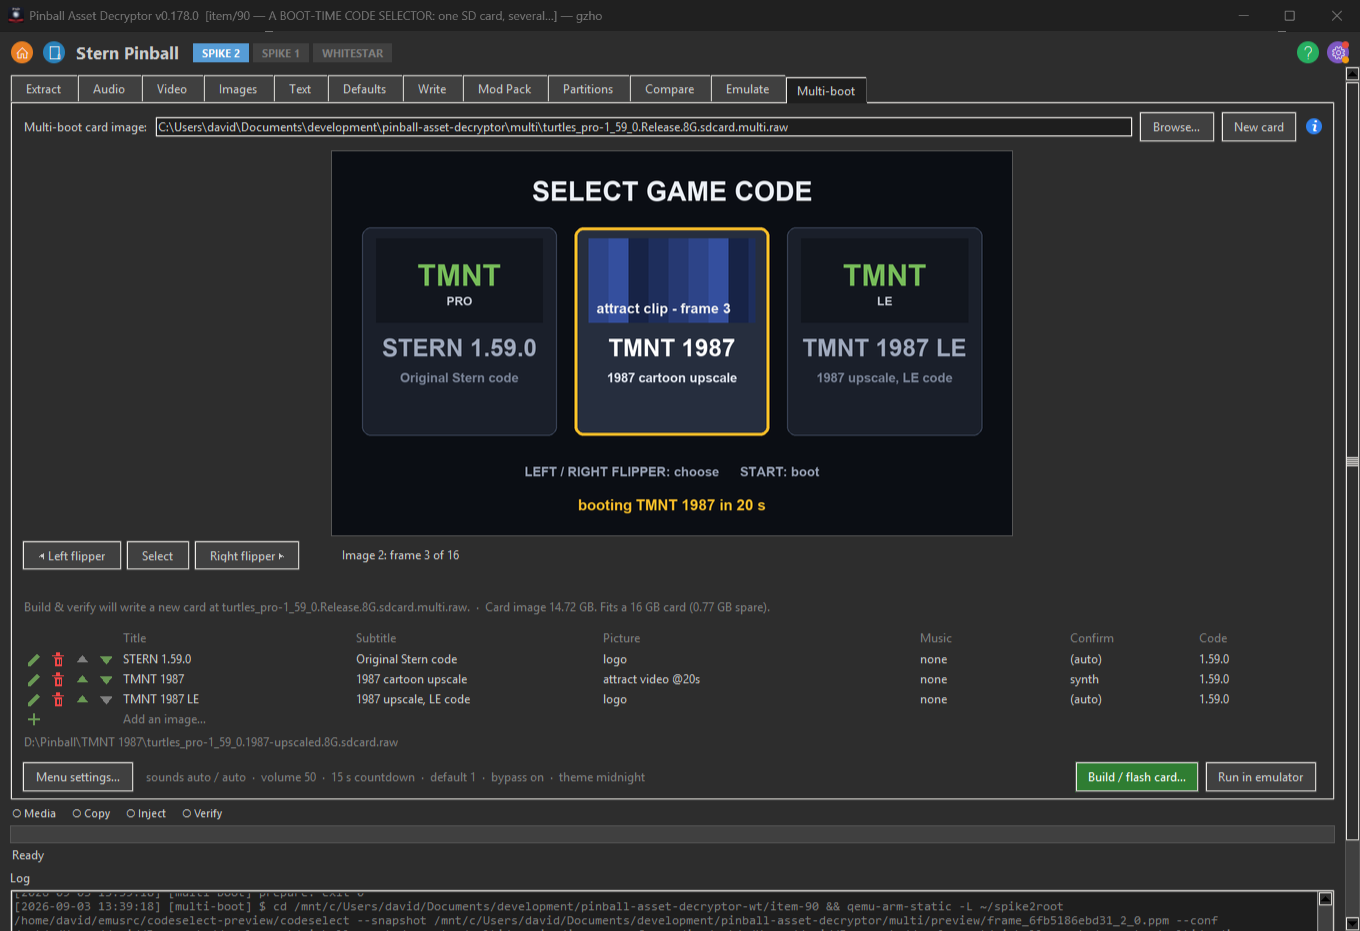
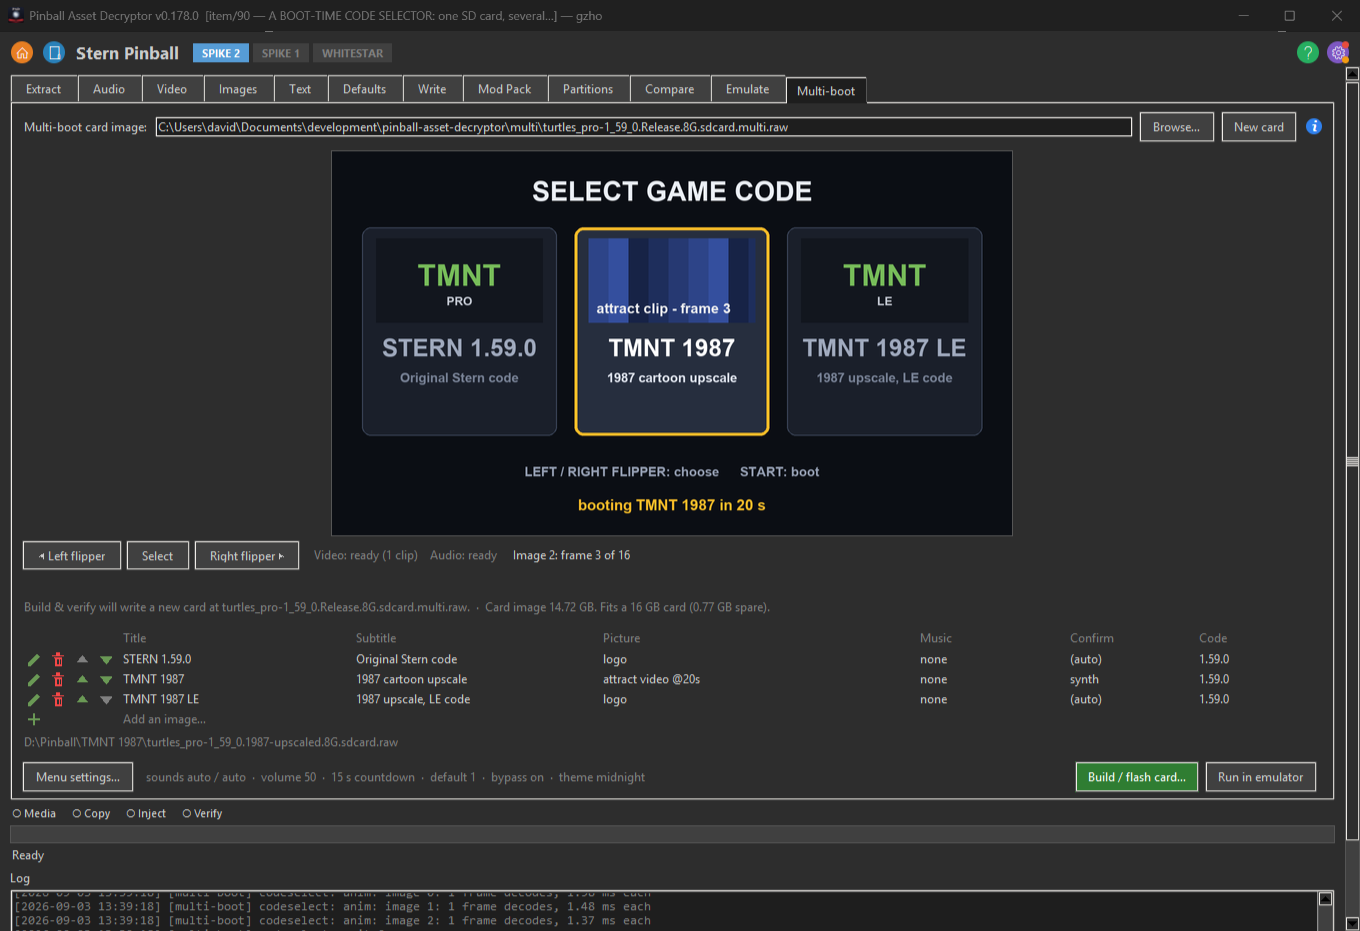
Item 90: the screenshot shows the Video / Audio readouts

Changed region(s): [[0.0, 0.9656, 0.8956, 1.0], [0.2162, 0.5918, 0.4632, 0.623]]

diff --git a/scripts/shot_multiboot_tab.py b/scripts/shot_multiboot_tab.py
@@ -543,6 +543,10 @@ def s_fill():
         log("frame from --frame: %s" % frame)
     log("load_frame -> %s"
         % panel.load_frame(frame, HIGHLIGHT, FRAME_INDEX, FRAMES))
+    # ...and the strip's two readouts as a rendered preview shows them
+    # (a render sets them; this stand-in frame came through load_frame).
+    panel._media_say("video", "ready (1 clip)")
+    panel._media_say("audio", "ready")
     # ROOM FOR IT.  The notebook was measured when the tab was selected
     # and the table has grown a row since; the status block is the LAST
     # thing packed, and short of its height the notebook clips it.  This
